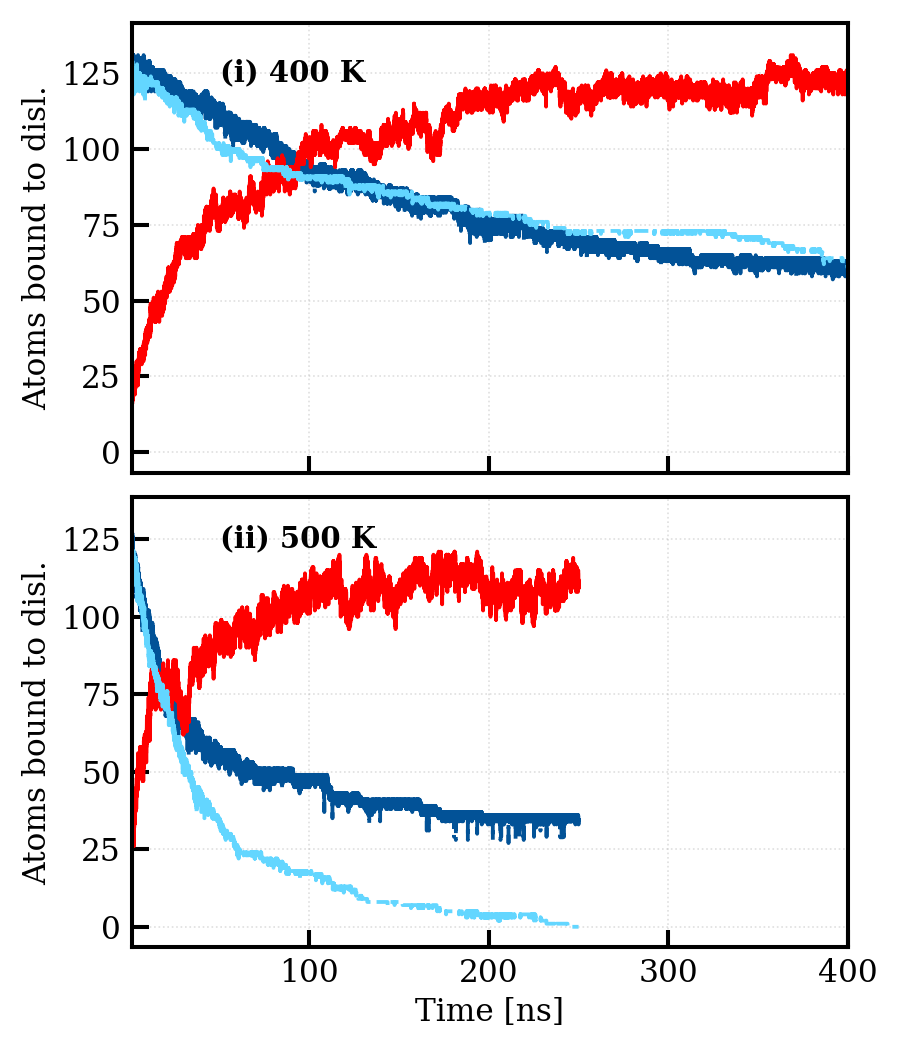
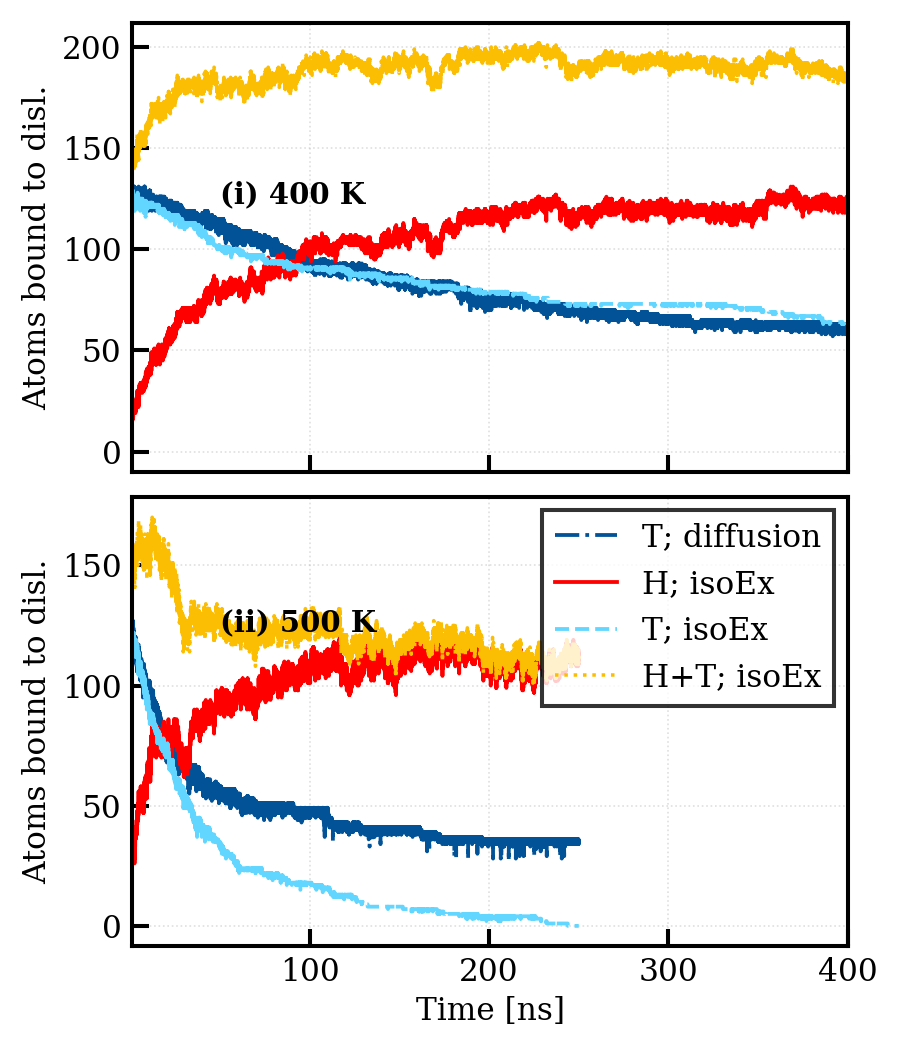
add H+T line to plots

diff --git a/plotting-scripts/plot_1Vac_isoEx_comp.py b/plotting-scripts/plot_1Vac_isoEx_comp.py
@@ -53,6 +53,7 @@ plt.subplot(3,1,1)
 init, final, step = [0,-1,10]
 plotter(tTH_isoEx_400K[init:final:step, 0], tTH_isoEx_400K[init:final:step,2], isoEx_style['H_iso'], isoEx_labels['H_iso'])
 plotter(tTH_isoEx_400K[init:final:step, 0], tTH_isoEx_400K[init:final:step,1], isoEx_style['T_iso'], isoEx_labels['T_iso'])
+plotter(tTH_isoEx_400K[init:final:step, 0], tTH_isoEx_400K[init:final:step,1]+tTH_isoEx_400K[init:final:step,2], isoEx_style['H+T'], isoEx_labels['H+T'])
 plotter(tT_diff_400K[:, 0], tT_diff_400K[:, 1], isoEx_style['T_diff'], isoEx_labels['T_diff'])
 plt.xlim((1, xulim))
 #plt.xlabel(xlbl)
@@ -65,6 +66,7 @@ plt.subplot(3,1,2)
 init, step, final = [0,10,-1]
 plotter(tTH_isoEx_450K[init:final:step, 0], tTH_isoEx_450K[init:final:step, 2], isoEx_style['H_iso'], isoEx_labels['H_iso'])
 plotter(tTH_isoEx_450K[init:final:step, 0], tTH_isoEx_450K[init:final:step, 1], isoEx_style['T_iso'], isoEx_labels['T_iso'])
+plotter(tTH_isoEx_400K[init:final:step, 0], tTH_isoEx_400K[init:final:step,1]+tTH_isoEx_400K[init:final:step,2], isoEx_style['H+T'], isoEx_labels['H+T'])
 plotter(tT_diff_450K[:, 0], tT_diff_450K[:, 1], isoEx_style['T_diff'], isoEx_labels['T_diff'])
 plt.xlim((1, xulim))
 #plt.xlabel(xlbl)
@@ -77,11 +79,14 @@ plt.subplot(3,1,3)
 init, step, final = [0,10,-1]
 plotter(tTH_isoEx_500K[init:final:step, 0], tTH_isoEx_500K[init:final:step, 2], isoEx_style['H_iso'], isoEx_labels['H_iso'])
 plotter(tTH_isoEx_500K[init:final:step, 0], tTH_isoEx_500K[init:final:step, 1], isoEx_style['T_iso'], isoEx_labels['T_iso'])
+plotter(tTH_isoEx_500K[init:final:step, 0], tTH_isoEx_500K[init:final:step,1]+tTH_isoEx_500K[init:final:step,2], isoEx_style['H+T'], isoEx_labels['H+T'])
 plotter(tT_diff_500K[:, 0], tT_diff_500K[:, 1], isoEx_style['T_diff'], isoEx_labels['T_diff'])
 plt.xlim((1, xulim))
 plt.xlabel(xlbl)
 plt.ylabel(ylbl)
 plt.text(1500, 5.3, '(iii) 500 K', font)
+leg = plt.legend(loc='lower right', bbox_to_anchor=(0.99, 0.05))
+leg.get_frame().set_linewidth(1.5*pltm)  # Legend bow linewidth
 #plt.gca().axes.get_xaxis().set_ticklabels([]) # Hide x-axis tick labels
 
 # 500 K; inverse isotopes
@@ -112,13 +117,12 @@ plt.subplot(3,1,1)
 init, final, step = [0,-1,10]
 plotter(tTH_isoEx_400K[init:final:step, 0], tTH_isoEx_400K[init:final:step,2], isoEx_style['H_iso'], isoEx_labels['H_iso'])
 plotter(tTH_isoEx_400K[init:final:step, 0], tTH_isoEx_400K[init:final:step,1], isoEx_style['T_iso'], isoEx_labels['T_iso'])
+plotter(tTH_isoEx_400K[init:final:step, 0], tTH_isoEx_400K[init:final:step,1]+tTH_isoEx_400K[init:final:step,2], isoEx_style['H+T'], isoEx_labels['H+T'])
 plotter(tT_diff_400K[:, 0], tT_diff_400K[:, 1], isoEx_style['T_diff'], isoEx_labels['T_diff'])
 plt.xlim((1, xulim))
 #plt.xlabel(xlbl)
 plt.ylabel(ylbl)
 plt.text(2, 5.3, '(i) 400 K', font)
-leg = plt.legend(loc='center left', bbox_to_anchor=(0.03, 0.5))
-leg.get_frame().set_linewidth(1.5*pltm)  # Legend bow linewidth
 plt.gca().axes.get_xaxis().set_ticklabels([]) # Hide x-axis tick labels
 
 # 450 K
@@ -126,6 +130,7 @@ plt.subplot(3,1,2)
 init, step, final = [0,10,-1]
 plotter(tTH_isoEx_450K[init:final:step, 0], tTH_isoEx_450K[init:final:step, 2], isoEx_style['H_iso'], isoEx_labels['H_iso'])
 plotter(tTH_isoEx_450K[init:final:step, 0], tTH_isoEx_450K[init:final:step, 1], isoEx_style['T_iso'], isoEx_labels['T_iso'])
+plotter(tTH_isoEx_450K[init:final:step, 0], tTH_isoEx_450K[init:final:step,1]+tTH_isoEx_450K[init:final:step,2], isoEx_style['H+T'], isoEx_labels['H+T'])
 plotter(tT_diff_450K[:, 0], tT_diff_450K[:, 1], isoEx_style['T_diff'], isoEx_labels['T_diff'])
 plt.xlim((1, xulim))
 #plt.xlabel(xlbl)
@@ -138,6 +143,7 @@ plt.subplot(3,1,3)
 init, step, final = [0,10,-1]
 plotter(tTH_isoEx_500K[init:final:step, 0], tTH_isoEx_500K[init:final:step, 2], isoEx_style['H_iso'], isoEx_labels['H_iso'])
 plotter(tTH_isoEx_500K[init:final:step, 0], tTH_isoEx_500K[init:final:step, 1], isoEx_style['T_iso'], isoEx_labels['T_iso'])
+plotter(tTH_isoEx_500K[init:final:step, 0], tTH_isoEx_500K[init:final:step,1]+tTH_isoEx_500K[init:final:step,2], isoEx_style['H+T'], isoEx_labels['H+T'])
 plotter(tT_diff_500K[:, 0], tT_diff_500K[:, 1], isoEx_style['T_diff'], isoEx_labels['T_diff'])
 plt.xlim((1, xulim))
 plt.xlabel(xlbl)

diff --git a/plotting-scripts/plot_GB_isoEx_comp.py b/plotting-scripts/plot_GB_isoEx_comp.py
@@ -49,23 +49,25 @@ plt.subplot(2,1,1)
 plotter(tT_diff_400K[:, 0], tT_diff_400K[:, 1], isoEx_style['T_diff'], isoEx_labels['T_diff'])
 plotter(tTH_isoEx_400K[init:final:step, 0], tTH_isoEx_400K[init:final:step, 2], isoEx_style['H_iso'], isoEx_labels['H_iso'])
 plotter(tTH_isoEx_400K[init:final:step, 0], tTH_isoEx_400K[init:final:step, 1], isoEx_style['T_iso'], isoEx_labels['T_iso'])
+plotter(tTH_isoEx_400K[init:final:step, 0], tTH_isoEx_400K[init:final:step,1]+tTH_isoEx_400K[init:final:step,2], isoEx_style['H+T'], isoEx_labels['H+T']) 
 plt.xlim((1, xulim))
 plt.xlabel(xlbl)
 plt.ylabel(ylbl)
 plt.text(105, 70, '(i) 400 K', font)
 plt.gca().axes.get_xaxis().set_ticklabels([]) # Hide x-axis tick labels
-    
+leg = plt.legend(loc='upper right', bbox_to_anchor=(0.999, 0.999), framealpha=0.8)
+leg.get_frame().set_linewidth(1.5*pltm)  # Legend bow linewidth 
+
 # 500 K
 plt.subplot(2,1,2)
 plotter(tT_diff_500K[:, 0], tT_diff_500K[:, 1], isoEx_style['T_diff'], isoEx_labels['T_diff'])
 plotter(tTH_isoEx_500K[init:final:step, 0], tTH_isoEx_500K[init:final:step, 2], isoEx_style['H_iso'], isoEx_labels['H_iso'])
 plotter(tTH_isoEx_500K[init:final:step, 0], tTH_isoEx_500K[init:final:step, 1], isoEx_style['T_iso'], isoEx_labels['T_iso'])
+plotter(tTH_isoEx_500K[init:final:step, 0], tTH_isoEx_500K[init:final:step,1]+tTH_isoEx_500K[init:final:step,2], isoEx_style['H+T'], isoEx_labels['H+T']) 
 plt.xlim((1, xulim))
 plt.xlabel(xlbl)
 plt.ylabel(ylbl)
 plt.text(105, 75, '(ii) 500 K', font)
-#leg = plt.legend()
-#leg.get_frame().set_linewidth(1.5*pltm)  # Legend bow linewidth
 #plt.gca().axes.get_xaxis().set_ticklabels([]) # Hide x-axis tick labels
 
 # Show & save figure
@@ -86,6 +88,7 @@ plt.subplot(2,1,1)
 plotter(tT_diff_400K[:, 0], tT_diff_400K[:, 1], isoEx_style['T_diff'], isoEx_labels['T_diff'])
 plotter(tTH_isoEx_400K[init:final:step, 0], tTH_isoEx_400K[init:final:step, 2], isoEx_style['H_iso'], isoEx_labels['H_iso'])
 plotter(tTH_isoEx_400K[init:final:step, 0], tTH_isoEx_400K[init:final:step, 1], isoEx_style['T_iso'], isoEx_labels['T_iso'])
+plotter(tTH_isoEx_400K[init:final:step, 0], tTH_isoEx_400K[init:final:step,1]+tTH_isoEx_400K[init:final:step,2], isoEx_style['H+T'], isoEx_labels['H+T']) 
 plt.xlim((1, xulim))
 plt.xlabel(xlbl)
 plt.ylabel(ylbl)
@@ -97,12 +100,13 @@ plt.subplot(2,1,2)
 plotter(tT_diff_500K[:, 0], tT_diff_500K[:, 1], isoEx_style['T_diff'], isoEx_labels['T_diff'])
 plotter(tTH_isoEx_500K[init:final:step, 0], tTH_isoEx_500K[init:final:step, 2], isoEx_style['H_iso'], isoEx_labels['H_iso'])
 plotter(tTH_isoEx_500K[init:final:step, 0], tTH_isoEx_500K[init:final:step, 1], isoEx_style['T_iso'], isoEx_labels['T_iso'])
+plotter(tTH_isoEx_500K[init:final:step, 0], tTH_isoEx_500K[init:final:step,1]+tTH_isoEx_500K[init:final:step,2], isoEx_style['H+T'], isoEx_labels['H+T']) 
 plt.xlim((1, xulim))
 plt.xlabel(xlbl)
 plt.ylabel(ylbl)
 plt.text(1.5, 75, '(ii) 500 K', font)
-leg = plt.legend(loc='lower left', bbox_to_anchor=(0.02, 0.26))
-leg.get_frame().set_linewidth(1.5*pltm)  # Legend bow linewidth
+#leg = plt.legend(loc='lower left', bbox_to_anchor=(0.02, 0.26))
+#leg.get_frame().set_linewidth(1.5*pltm)  # Legend bow linewidth
 #plt.gca().axes.get_xaxis().set_ticklabels([]) # Hide x-axis tick labels
 
 # Show & save figure

diff --git a/plotting-scripts/plot_2Vac_isoEx_comp.py b/plotting-scripts/plot_2Vac_isoEx_comp.py
@@ -50,18 +50,18 @@ plt.subplot(2,1,1)
 plotter(tT_diff_400K[:, 0], tT_diff_400K[:, 1], isoEx_style['T_diff'], isoEx_labels['T_diff'])
 plotter(tTH_isoEx_400K[init:final:step, 0], tTH_isoEx_400K[init:final:step, 2], isoEx_style['H_iso'], isoEx_labels['H_iso'])
 plotter(tTH_isoEx_400K[init:final:step, 0], tTH_isoEx_400K[init:final:step, 1], isoEx_style['T_iso'], isoEx_labels['T_iso'])
+plotter(tTH_isoEx_400K[init:final:step, 0], tTH_isoEx_400K[init:final:step,1]+tTH_isoEx_400K[init:final:step,2], isoEx_style['H+T'], isoEx_labels['H+T'])
 plt.xlim((1, xulim))
 plt.ylim((0,12))
 plt.ylabel(ylbl)
 plt.text(50, 10.8, '(i) 400 K', font)
-#leg = plt.legend(loc='lower right', bbox_to_anchor=(0.99, 0.03))
-#leg.get_frame().set_linewidth(1.5*pltm)  # Legend bow linewidth
 plt.gca().axes.get_xaxis().set_ticklabels([]) # Hide x-axis tick labels
 
 # 500 K
 plt.subplot(2,1,2)
 plotter(tTH_isoEx[init:final:step, 0], tTH_isoEx[init:final:step,2], isoEx_style['H_iso'], isoEx_labels['H_iso'])
 plotter(tTH_isoEx[init:final:step, 0], tTH_isoEx[init:final:step,1], isoEx_style['T_iso'], isoEx_labels['T_iso'])
+plotter(tTH_isoEx[init:final:step, 0], tTH_isoEx[init:final:step,1]+tTH_isoEx[init:final:step,2], isoEx_style['H+T'], isoEx_labels['H+T'])
 plotter(tTH_diff[0:len(tTH_isoEx[:, 0]), 0], tTH_diff[0:len(tTH_isoEx[:, 0]), 1], isoEx_style['T_diff'], isoEx_labels['T_diff'])
 plt.xlim((1, xulim))
 plt.ylim((0,12))
@@ -88,27 +88,26 @@ plt.subplot(2,1,1)
 plotter(tT_diff_400K[:, 0], tT_diff_400K[:, 1], isoEx_style['T_diff'], isoEx_labels['T_diff'])
 plotter(tTH_isoEx_400K[init:final:step, 0], tTH_isoEx_400K[init:final:step, 2], isoEx_style['H_iso'], isoEx_labels['H_iso'])
 plotter(tTH_isoEx_400K[init:final:step, 0], tTH_isoEx_400K[init:final:step, 1], isoEx_style['T_iso'], isoEx_labels['T_iso'])
+plotter(tTH_isoEx_400K[init:final:step, 0], tTH_isoEx_400K[init:final:step,1]+tTH_isoEx_400K[init:final:step,2], isoEx_style['H+T'], isoEx_labels['H+T'])
 plt.xlim((1, xulim))
 plt.ylim((0,12))
 plt.ylabel(ylbl)
 plt.text(2, 10.8, '(i) 400 K', font)
-#leg = plt.legend(loc='lower right', bbox_to_anchor=(0.99, 0.03))
-#leg.get_frame().set_linewidth(1.5*pltm)  # Legend bow linewidth
+leg = plt.legend(loc='center left', bbox_to_anchor=(0.03, 0.42))
+leg.get_frame().set_linewidth(1.5*pltm)  # Legend bow linewidth
 plt.gca().axes.get_xaxis().set_ticklabels([]) # Hide x-axis tick labels
 
 # 500 K
 plt.subplot(2,1,2)
 plotter(tTH_isoEx[init:final:step, 0], tTH_isoEx[init:final:step,2], isoEx_style['H_iso'], isoEx_labels['H_iso'])
 plotter(tTH_isoEx[init:final:step, 0], tTH_isoEx[init:final:step,1], isoEx_style['T_iso'], isoEx_labels['T_iso'])
+plotter(tTH_isoEx[init:final:step, 0], tTH_isoEx[init:final:step,1]+tTH_isoEx[init:final:step,2], isoEx_style['H+T'], isoEx_labels['H+T'])
 plotter(tTH_diff[0:len(tTH_isoEx[:, 0]), 0], tTH_diff[0:len(tTH_isoEx[:, 0]), 1], isoEx_style['T_diff'], isoEx_labels['T_diff'])
 plt.xlim((1, xulim))
 plt.ylim((0,12))
 plt.xlabel(xlbl)
 plt.ylabel(ylbl)
 plt.text(2, 10.8, '(ii) 500K', font)
-leg = plt.legend(loc='center left', bbox_to_anchor=(0.03, 0.42))
-leg.get_frame().set_linewidth(1.5*pltm)  # Legend bow linewidth
-
 
 # Show & save figure
 plt.tight_layout()

diff --git a/plotting-scripts/plot_disloc_isoEx_comp.py b/plotting-scripts/plot_disloc_isoEx_comp.py
@@ -50,6 +50,7 @@ plt.subplot(2,1,1)
 plotter(tT_diff_400K[:, 0], tT_diff_400K[:, 1], isoEx_style['T_diff'], isoEx_labels['T_diff'])
 plotter(tTH_isoEx_400K[init:final:step, 0], tTH_isoEx_400K[init:final:step, 2], isoEx_style['H_iso'], isoEx_labels['H_iso'])
 plotter(tTH_isoEx_400K[init:final:step, 0], tTH_isoEx_400K[init:final:step, 1], isoEx_style['T_iso'], isoEx_labels['T_iso'])
+plotter(tTH_isoEx_400K[init:final:step, 0], tTH_isoEx_400K[init:final:step,1]+tTH_isoEx_400K[init:final:step,2], isoEx_style['H+T'], isoEx_labels['H+T']) 
 plt.xlim((1, xulim))
 plt.ylabel(ylbl)
 plt.text(50, 122.5, '(i) 400 K', font)
@@ -60,12 +61,13 @@ plt.subplot(2,1,2)
 plotter(tT_diff_500K[:, 0], tT_diff_500K[:, 1], isoEx_style['T_diff'], isoEx_labels['T_diff'])
 plotter(tTH_isoEx_500K[init:final:step, 0], tTH_isoEx_500K[init:final:step, 2], isoEx_style['H_iso'], isoEx_labels['H_iso'])
 plotter(tTH_isoEx_500K[init:final:step, 0], tTH_isoEx_500K[init:final:step, 1], isoEx_style['T_iso'], isoEx_labels['T_iso'])
+plotter(tTH_isoEx_500K[init:final:step, 0], tTH_isoEx_500K[init:final:step,1]+tTH_isoEx_500K[init:final:step,2], isoEx_style['H+T'], isoEx_labels['H+T']) 
 plt.xlim((1, xulim))
 plt.xlabel(xlbl)
 plt.ylabel(ylbl)
 plt.text(50, 122.5, '(ii) 500 K', font)
-#leg = plt.legend()
-#leg.get_frame().set_linewidth(1.5*pltm)  # Legend bow linewidth
+leg = plt.legend(loc='upper right', bbox_to_anchor=(0.999, 0.999), framealpha=0.8) 
+leg.get_frame().set_linewidth(1.5*pltm)  # Legend bow linewidth
 #plt.gca().axes.get_xaxis().set_ticklabels([]) # Hide x-axis tick labels
 
 # Show & save figure
@@ -86,11 +88,12 @@ plt.subplot(2,1,1)
 plotter(tT_diff_400K[:, 0], tT_diff_400K[:, 1], isoEx_style['T_diff'], isoEx_labels['T_diff'])
 plotter(tTH_isoEx_400K[init:final:step, 0], tTH_isoEx_400K[init:final:step, 2], isoEx_style['H_iso'], isoEx_labels['H_iso'])
 plotter(tTH_isoEx_400K[init:final:step, 0], tTH_isoEx_400K[init:final:step, 1], isoEx_style['T_iso'], isoEx_labels['T_iso'])
+plotter(tTH_isoEx_400K[init:final:step, 0], tTH_isoEx_400K[init:final:step,1]+tTH_isoEx_400K[init:final:step,2], isoEx_style['H+T'], isoEx_labels['H+T']) 
 plt.xlim((1, xulim))
 plt.ylabel(ylbl)
 plt.text(1.3, 88, '(i) 400 K', font)
-leg = plt.legend(loc='lower right', bbox_to_anchor=(0.99, 0.03))
-leg.get_frame().set_linewidth(1.5*pltm)  # Legend bow linewidth
+#leg = plt.legend(loc='lower right', bbox_to_anchor=(0.99, 0.03))
+#leg.get_frame().set_linewidth(1.5*pltm)  # Legend bow linewidth
 plt.gca().axes.get_xaxis().set_ticklabels([]) # Hide x-axis tick labels
 
 # 500 K
@@ -98,6 +101,7 @@ plt.subplot(2,1,2)
 plotter(tT_diff_500K[:, 0], tT_diff_500K[:, 1], isoEx_style['T_diff'], isoEx_labels['T_diff'])
 plotter(tTH_isoEx_500K[init:final:step, 0], tTH_isoEx_500K[init:final:step, 2], isoEx_style['H_iso'], isoEx_labels['H_iso'])
 plotter(tTH_isoEx_500K[init:final:step, 0], tTH_isoEx_500K[init:final:step, 1], isoEx_style['T_iso'], isoEx_labels['T_iso'])
+plotter(tTH_isoEx_500K[init:final:step, 0], tTH_isoEx_500K[init:final:step,1]+tTH_isoEx_500K[init:final:step,2], isoEx_style['H+T'], isoEx_labels['H+T']) 
 plt.xlim((1, xulim))
 plt.xlabel(xlbl)
 plt.ylabel(ylbl)

diff --git a/plotting-scripts/plotStyle.py b/plotting-scripts/plotStyle.py
@@ -52,13 +52,15 @@ H_iso_color, T_iso_color, T_diff_color = ['#ffa41b','#0de2ea','#025297']  # Blue
 H_iso_color, T_iso_color, T_diff_color = ['#ff0000','#63d6ff','#025297']  # Blue-red
 #H_iso_color, T_iso_color, T_diff_color = ['#003f5c','#bb053c','#ffa41b']  # Germany
 #H_iso_color, T_iso_color, T_diff_color = ['#ff7f0e','#ff7f0e','#2ca02c']  # Matplotlib default-ish
+HT_color = '#fcbe03'
 
 H_iso_style = {'linestyle':'-', 'color':H_iso_color, 'markerfacecolor':H_iso_color, 'markeredgecolor':H_iso_color}
 T_iso_style = {'linestyle':'--', 'color':T_iso_color, 'markerfacecolor':T_iso_color, 'markeredgecolor':T_iso_color}
 T_diff_style = {'linestyle':'-.', 'color':T_diff_color, 'markerfacecolor':T_diff_color, 'markeredgecolor':T_diff_color}
-isoEx_style = {'H_iso':H_iso_style, 'T_iso':T_iso_style, 'T_diff':T_diff_style} 
+HT_style = {'linestyle':':', 'color':HT_color, 'markerfacecolor':HT_color, 'markeredgecolor':HT_color, 'linewidth':1.3*pltm}
+isoEx_style = {'H_iso':H_iso_style, 'T_iso':T_iso_style, 'T_diff':T_diff_style, 'H+T':HT_style} 
 
 # Labels
-isoEx_labels = {'H_iso':'H; isoEx', 'T_iso':'T; isoEx', 'T_diff':'T; diffusion'}
+isoEx_labels = {'H_iso':'H; isoEx', 'T_iso':'T; isoEx', 'T_diff':'T; diffusion', 'H+T':'H+T; isoEx'}
 
 

diff --git a/5_Results.tex b/5_Results.tex
@@ -78,6 +78,8 @@ The dislocation results are shown in Fig. \ref{Fig:disloc_results} and indicate 
 At 400 K, on the other hand, there is no significant difference between the two methods.
 
 Due to the extremely long simulation that would have been required for complete T-removal using the monoisotopic method even at 500 K, we can only state that removal using isotope exchange appears to be several orders of magnitude faster.
+
+Fig. \ref{Fig:disloc_results} additionally reveals that the total number of H and T bound to the defect increases slightly during the isotope exchange simulation, possibly due to insufficient saturation runs. 
  
 
 \begin{figure}[!ht]
